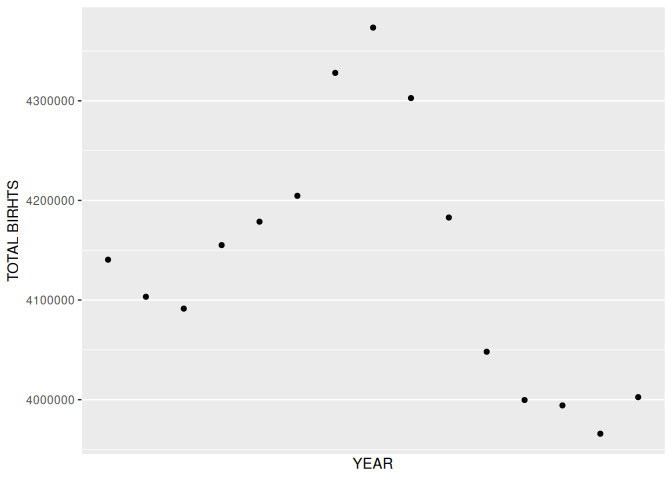
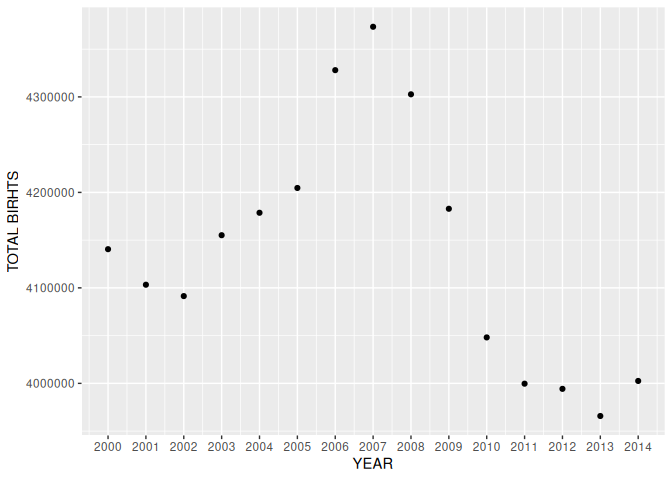
Finally fixed scatter plot x axis. All years are ticked off on x axis.

diff --git a/examples/rmarkdown-and-sql-built-births-display.md b/examples/rmarkdown-and-sql-built-births-display.md
@@ -150,8 +150,7 @@ knitr::kable(my_birth_data)
 | 2014 |             2 |               661677 |          7 |            357476 |                 333542.8 |      4002514 |
 
 ``` r
-my_birth_data$year = as.Date(my_birth_data$year)
-ggplot(my_birth_data, aes(x = year, y = total_births)) + geom_point() + labs(x = "YEAR", y = "TOTAL BIRHTS") + scale_x_date(date_breaks = "1 year")
+ggplot(my_birth_data, aes(x = year, y = total_births)) + geom_point() + labs(x = "YEAR", y = "TOTAL BIRHTS") + scale_x_continuous(name = "YEAR", breaks = my_birth_data$year, labels = as.character(my_birth_data$year))
 ```
 
 ![](rmarkdown-and-sql-built-births-display_files/figure-gfm/sql-display-1.png)<!-- -->
